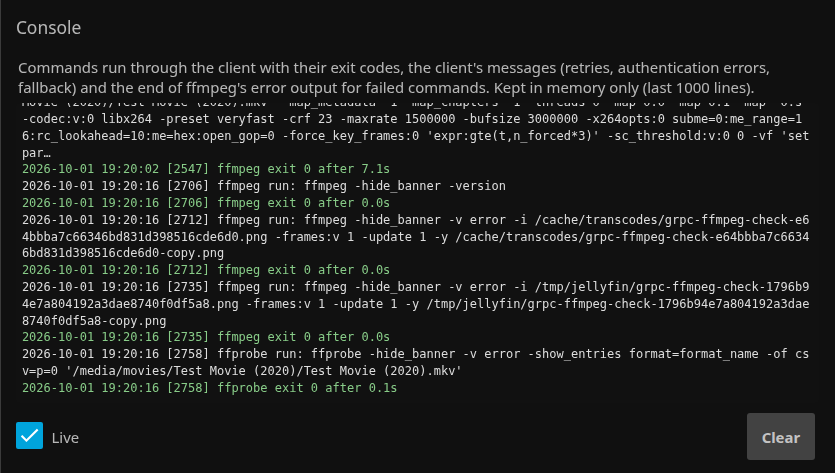
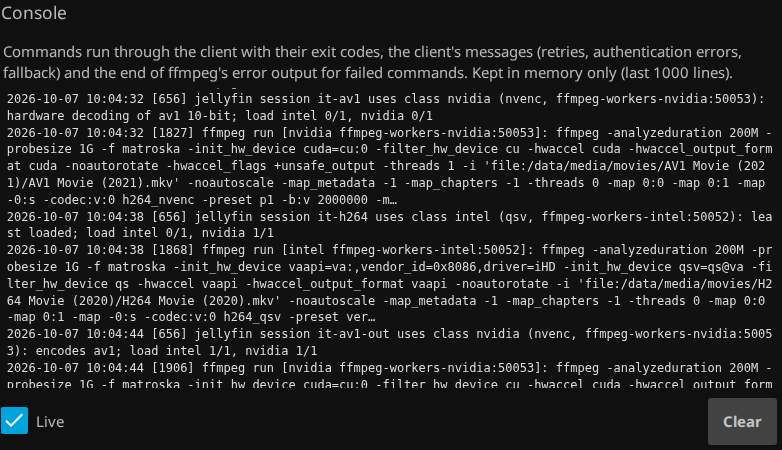
README: screenshots of the new settings page [CI SKIP]
The settings page with the section navigation and the save bar (Jellyfin
12.2): the Workers section with a passing test, the NVIDIA NVENC section
with the workers' status and detected codecs (new), and the console with
playback sessions routed to their hardware classes.

Claude-Session: https://claude.ai/code/session_01SwHM8rWHWKBZz3vKdQQTp2

Changed region(s): [[0.0, 0.0, 1.0, 0.9956]]

diff --git a/README.md b/README.md
@@ -34,15 +34,20 @@ environment variables and no change to Jellyfin's ffmpeg path are needed.
 
 ## Screenshots
 
-The settings page, with a passing setup test: the workers are reachable and share Jellyfin's
+The settings page, with a passing test of the workers: they are reachable and share Jellyfin's
 directories.
 
-![Settings page with the worker settings and a passing setup test](images/settings.png)
+![Settings page with the worker settings and a passing test](images/settings.png)
 
-The console lists every command run through the workers, here a library scan's probe, an
-image extraction and a transcode:
+With the experimental hardware classes, each kind of GPU has its own section: its workers'
+status, the codecs detected on their GPUs, and a test.
 
-![Console with ffprobe, image extraction and transcode commands](images/console.png)
+![NVIDIA NVENC section with the workers' status, detected codecs and a passing test](images/hardware-classes.png)
+
+The console lists every command run through the workers, here playback sessions that each got
+a hardware class, and their transcodes on that class's workers:
+
+![Console with playback sessions and their transcodes on the Intel and NVIDIA workers](images/console.png)
 
 ## Requirements
 
